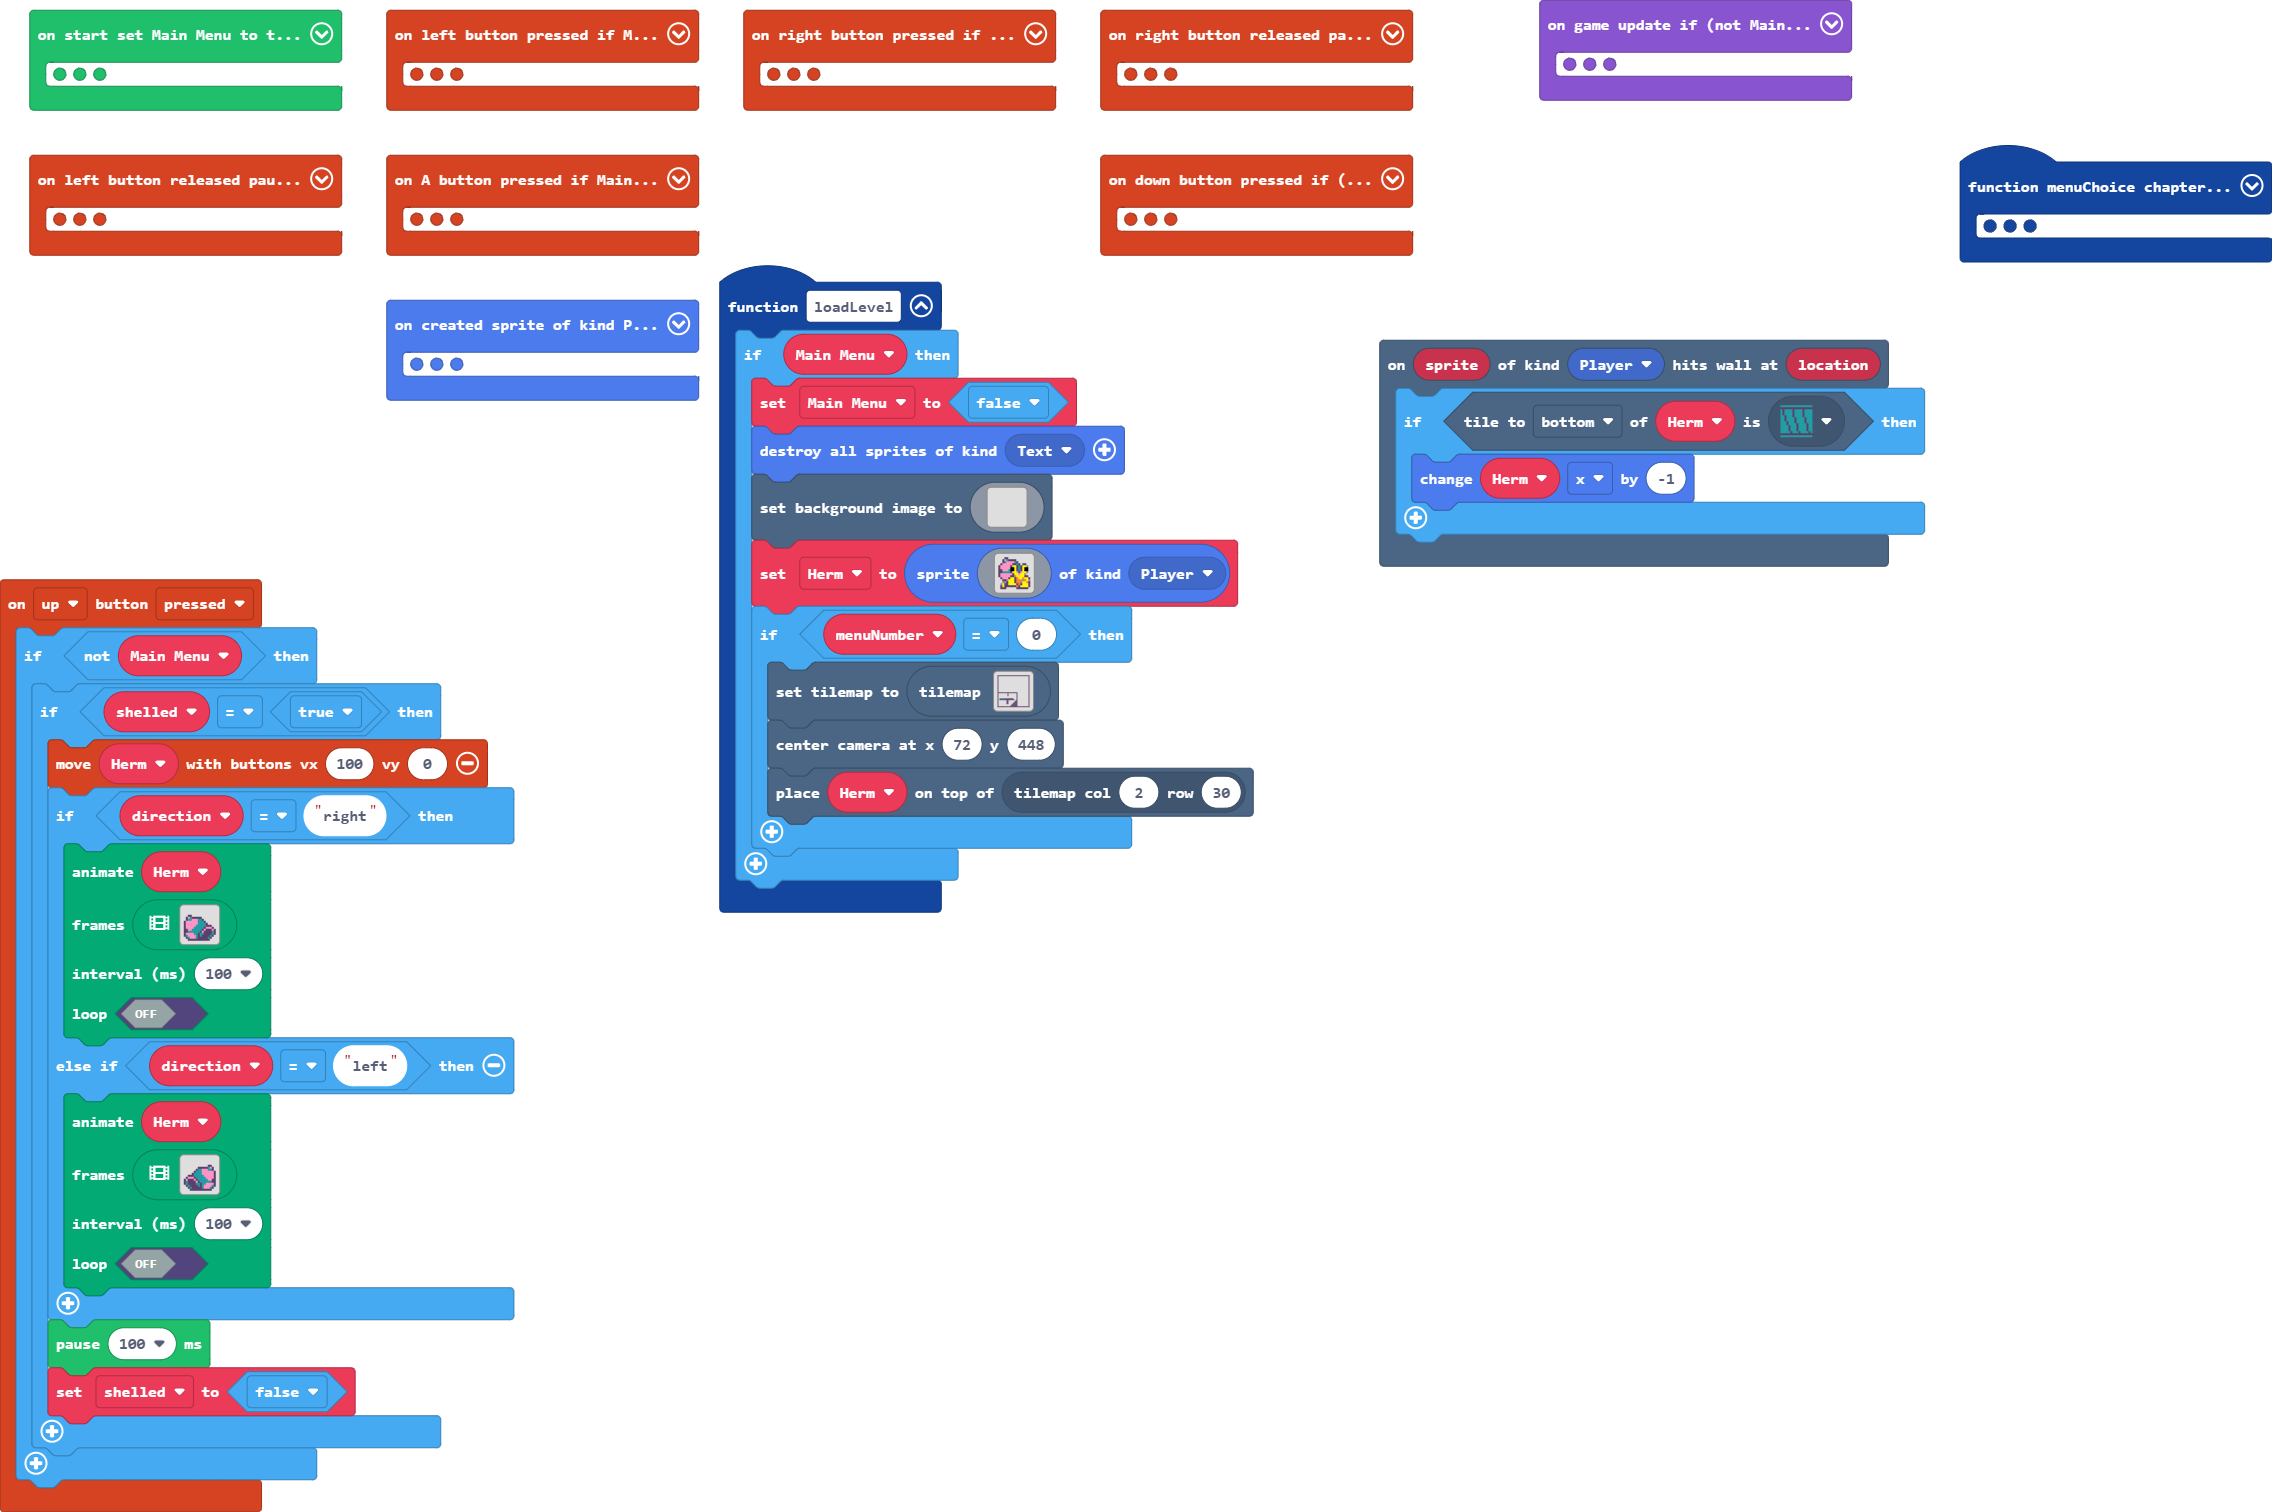
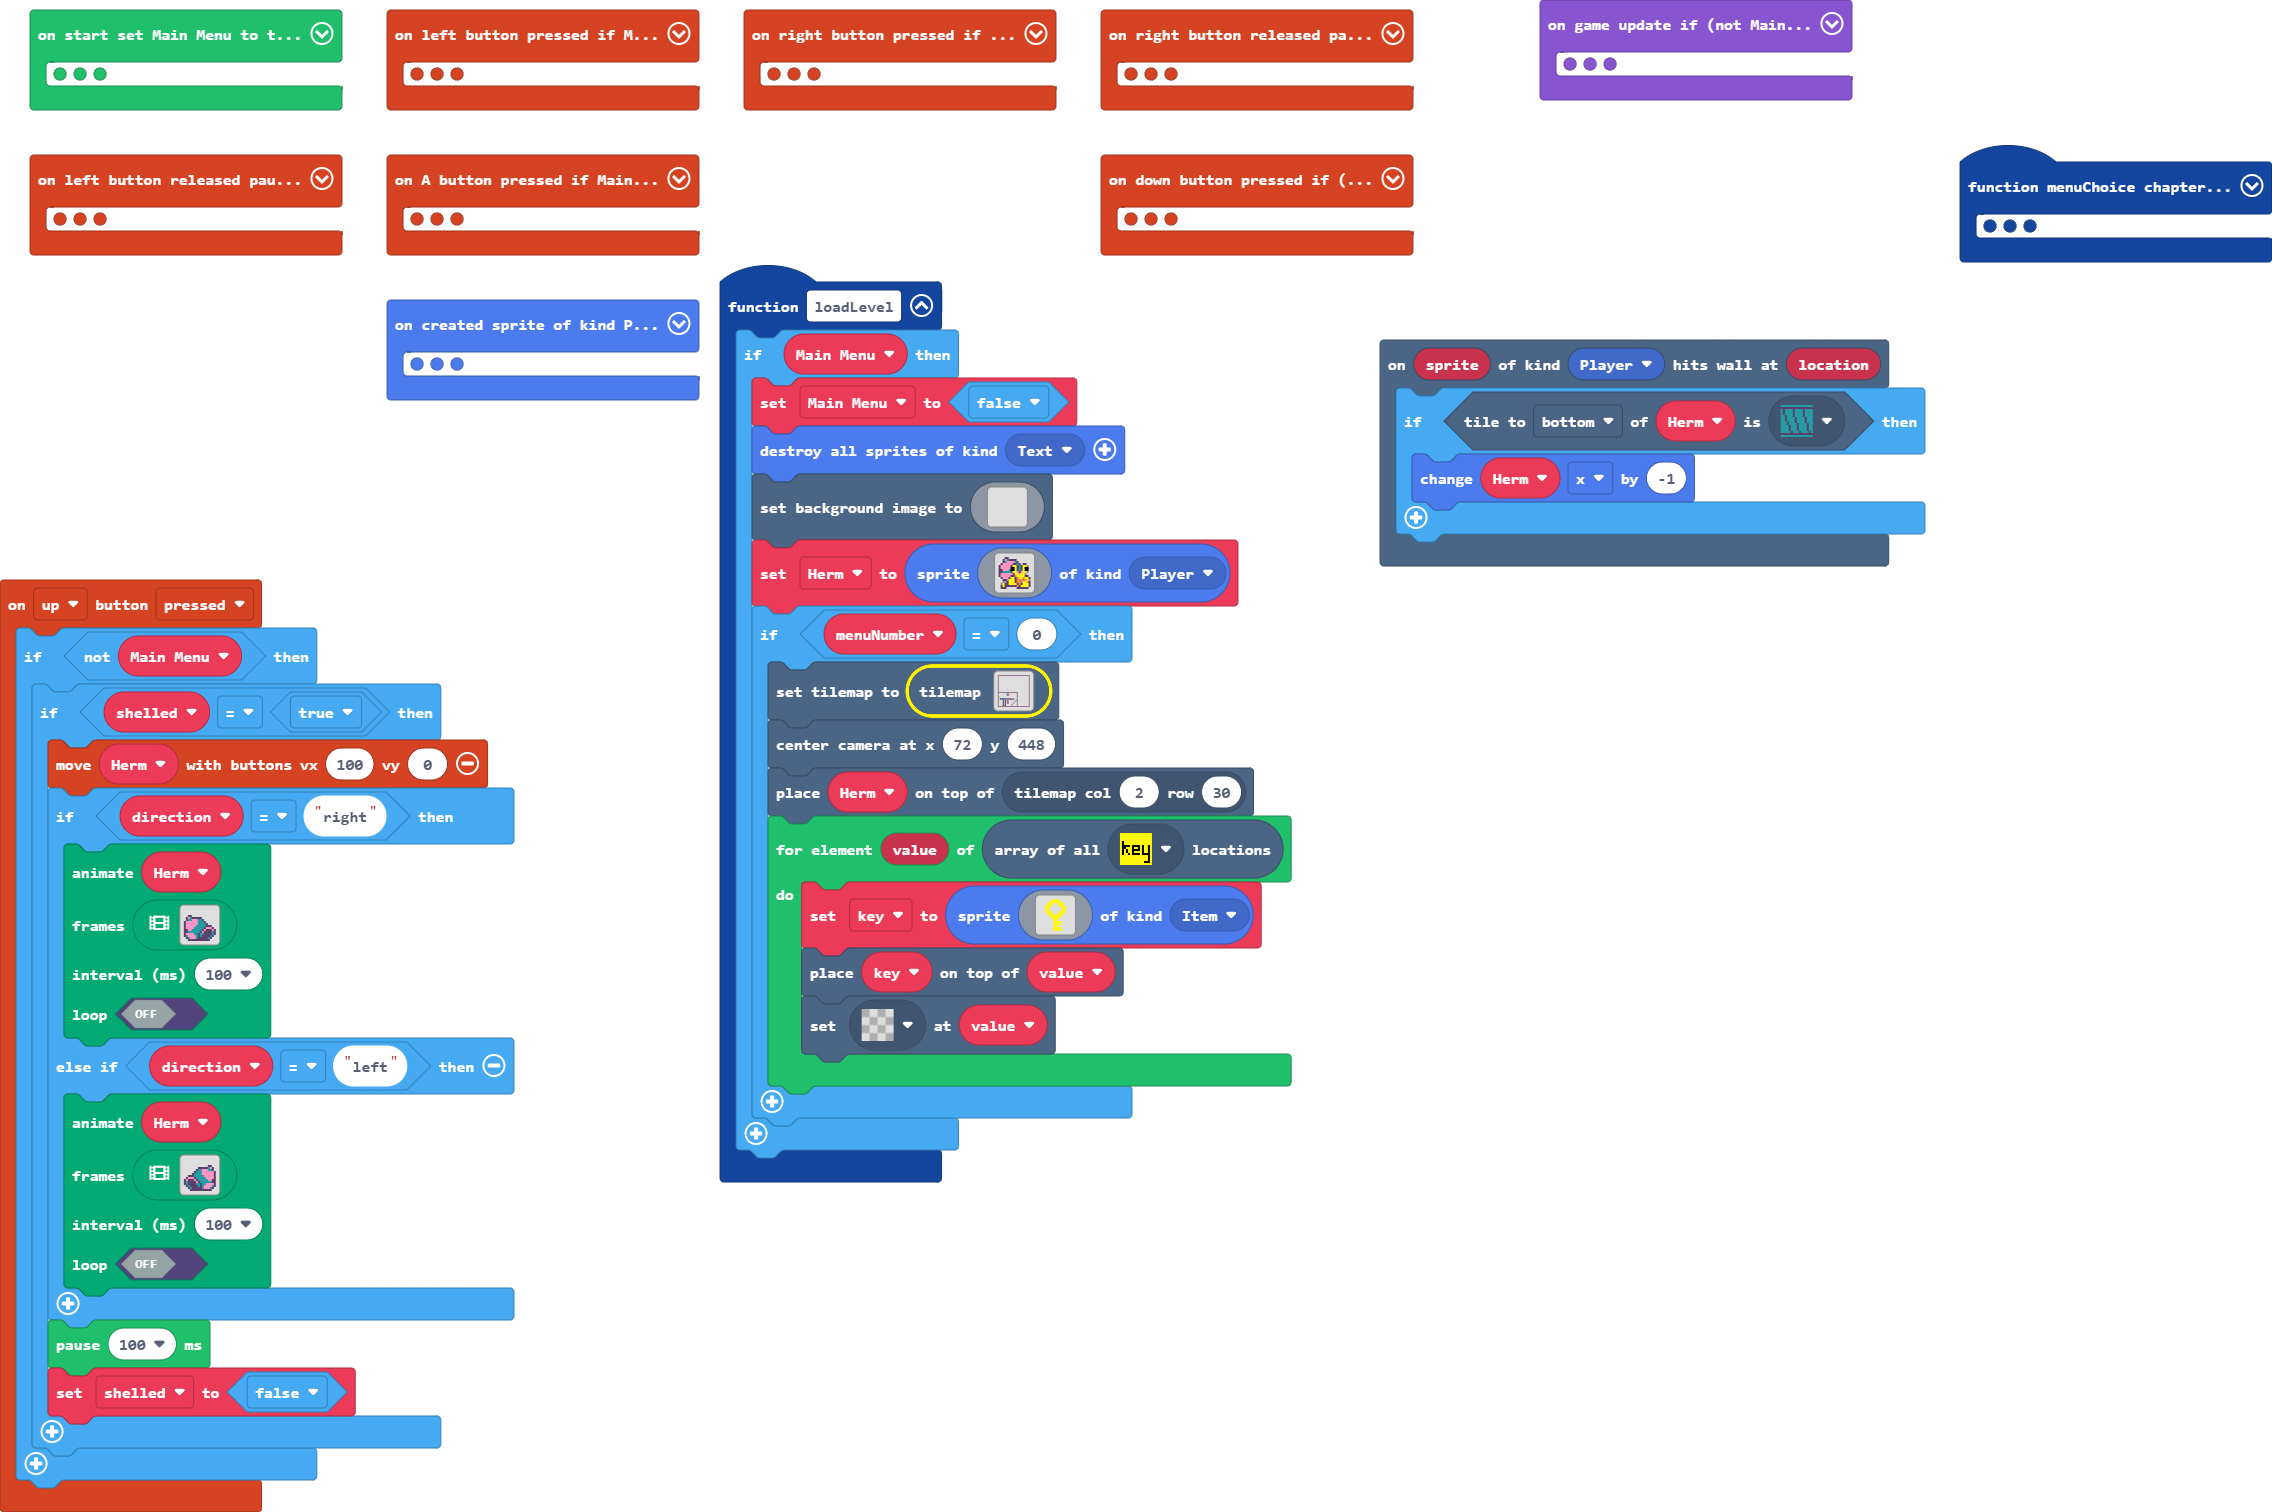
Update main.blocks, main.ts, tilemap.g.jres, tilemap.g.ts

diff --git a/tilemap.g.ts b/tilemap.g.ts
@@ -3,11 +3,17 @@ namespace myTiles {
     //% fixedInstance jres blockIdentity=images._tile
     export const transparency16 = image.ofBuffer(hex``);
     //% fixedInstance jres blockIdentity=images._tile
-    export const tile1 = image.ofBuffer(hex``);
-    //% fixedInstance jres blockIdentity=images._tile
     export const tile2 = image.ofBuffer(hex``);
     //% fixedInstance jres blockIdentity=images._tile
     export const tile3 = image.ofBuffer(hex``);
+    //% fixedInstance jres blockIdentity=images._tile
+    export const tile5 = image.ofBuffer(hex``);
+    //% fixedInstance jres blockIdentity=images._tile
+    export const tile6 = image.ofBuffer(hex``);
+    //% fixedInstance jres blockIdentity=images._tile
+    export const tile7 = image.ofBuffer(hex``);
+    //% fixedInstance jres blockIdentity=images._tile
+    export const tile1 = image.ofBuffer(hex``);
     //% fixedInstance jres blockIdentity=images._tile
     export const tile4 = image.ofBuffer(hex``);
 
@@ -71,7 +77,7 @@ namespace myTiles {
 . . . . . . . . . . . . . . . . 
 `, [myTiles.transparency16], TileScale.Sixteen);
             case "level2":
-            case "level2":return tiles.createTilemap(hex`2000200001010101010101010101010101010101010101010101010101010101010101010100000000000000000000000000000000000000000000000000000000000001010000000000000000000000000000000000000000000000000000000000000101000000000000000000000000000000000000000000000000000000000000010100000000000000000000000000000000000000000000000000000000000001010000000000000000000000000000000000000000000000000000000000000101000000000000000000000000000000000000000000000000000000000000010100000000000000000000000000000000000000000000000000000000000001010000000000000000000000000000000000000000000000000000000000000101000000000000000000000000000000000000000000000000000000000000010100000000000000000000000000000000000000000000000000000000000001010000000000000000000000000000000000000000000000000000000000000101000000000000000000000000000000000000000000000000000000000000010100000000000000000000000000000000000000000000000000000000000001010000000000000000000000000000000000000000000000000000000000000101000000000000000000000000000000000000000000000000000000000000010100000000000000000000000000000000000000000000000000000000000001010101010101010101010101010101010101010100000000000000000000000101000000000000000000010000000000000000010000000000000000000000010100000000000000000001000300000000000001000000000000000000000001010000000000000000000100000000000000000100000000000000000000000101030000000000000000000000000000000000010000000000000000000000010100000000000000000000000000000000000001000000000000000000000001010002020202020201010101010101010000000100000000000000000000000101000101010101010101010101010101010000010000000000000000000000010100000000000000000101000000000000000101000000000000000000000001010000000000000000010100000000000001010100000000000000000000000101000000000000000001010000000000010101010000000000000000000000010100000000000000000101000000000101010101000000000000000000000001010000000000000000000000000001010101010100000000000000000000000101000000000003000000000000010101010101010000000000000000000000010101010101010101010101010101010101010101010101010101010101010101`, img`
+            case "level2":return tiles.createTilemap(hex`2000200001010101010101010101010101010101010101010101010101010101010101010100000000000000000000000000000000000000000000000000000000000001010000000000000000000000000000000000000000000000000000000000000101000000000000000000000000000000000000000000000000000000000000010100000000000000000000000000000000000000000000000000000000000001010000000000000000000000000000000000000000000000000000000000000101000000000000000000000000000000000000000000000000000000000000010100000000000000000000000000000000000000000000000000000000000001010000000000000000000000000000000000000000000000000000000000000101000000000000000000000000000000000000000000000000000000000000010100000000000000000000000000000000000000000000000000000000000001010000000000000000000000000000000000000000000000000000000000000101000000000000000000000000000000000000000000000000000000000000010100000000000000000000000000000000000000000000000000000000000001010000000000000000000000000000000000000000000000000000000000000101000000000000000000000000000000000000000000000000000000000000010100000000000000000000000000000000000000000000000000000000000001010101010101010101010101010101010101010100000000000000000000000101000000000000000001010000000000000000010000000000000000000000010100000000000000000101000300000000000001000000000000000000000001010000000000000000010100000000000000000100000000000000000000000101030000000000000000000000000000000000010000000000000000000000010100000000000000000000000000000000000001000000000000000000000001010002020202020201010101010101010000000100000000000000000000000101000101010101010101010101010101010000010000000000000000000000010100000000050005000101000000000000000101000000000000000000000001010000000004000400010100000000000001000100000000000000000000000101000000000400040001010000000000010000010000000000000000000000010100000000040004000101000000000100000001000000000000000000000001010000000004000400000000000001000000000100000000000000000000000101000000000603060000000000010000000000010000000000000000000000010101010101010101010101010101010101010101010101010101010101010101`, img`
 22222222222222222222222222222222
 2..............................2
 2..............................2
@@ -90,21 +96,21 @@ namespace myTiles {
 2..............................2
 2..............................2
 22222222222222222222...........2
-2.........2........2...........2
-2.........2........2...........2
-2.........2........2...........2
+2........22........2...........2
+2........22........2...........2
+2........22........2...........2
 2..................2...........2
 2..................2...........2
 2.22222222222222...2...........2
 2.222222222222222..2...........2
 2........22.......22...........2
-2........22......222...........2
-2........22.....2222...........2
-2........22....22222...........2
-2.............222222...........2
-2............2222222...........2
+2........22......2.2...........2
+2........22.....2..2...........2
+2........22....2...2...........2
+2.............2....2...........2
+2............2.....2...........2
 22222222222222222222222222222222
-`, [myTiles.transparency16,myTiles.tile1,myTiles.tile2,myTiles.tile4], TileScale.Sixteen);
+`, [myTiles.transparency16,myTiles.tile1,myTiles.tile2,myTiles.tile4,myTiles.tile5,myTiles.tile6,myTiles.tile7], TileScale.Sixteen);
         }
         return null;
     })
@@ -112,12 +118,18 @@ namespace myTiles {
     helpers._registerFactory("tile", function(name: string) {
         switch(helpers.stringTrim(name)) {
             case "transparency16":return transparency16;
-            case "myTile":
-            case "tile1":return tile1;
             case "myTile0":
             case "tile2":return tile2;
             case "myTile1":
             case "tile3":return tile3;
+            case "myTile3":
+            case "tile5":return tile5;
+            case "myTile4":
+            case "tile6":return tile6;
+            case "myTile5":
+            case "tile7":return tile7;
+            case "myTile":
+            case "tile1":return tile1;
             case "myTile2":
             case "tile4":return tile4;
         }

diff --git a/main.ts b/main.ts
@@ -1,3 +1,6 @@
+namespace SpriteKind {
+    export const Item = SpriteKind.create()
+}
 function menuChoice (chapter: number) {
     scene.setBackgroundImage(img`
         ................................................................................................................................................................
@@ -627,6 +630,28 @@ function loadLevel () {
             tiles.setCurrentTilemap(tilemap`level2`)
             scene.centerCameraAt(72, 448)
             tiles.placeOnTile(Herm, tiles.getTileLocation(2, 30))
+            for (let value of tiles.getTilesByType(assets.tile`myTile2`)) {
+                key = sprites.create(img`
+                    . . . . . . 5 5 5 5 . . . . . . 
+                    . . . . . 5 5 5 5 5 5 . . . . . 
+                    . . . . 5 5 5 . . 5 5 5 . . . . 
+                    . . . 5 5 5 . . . . 5 5 5 . . . 
+                    . . . 5 5 . . . . . . 5 5 . . . 
+                    . . . 5 5 . . . . . . 5 5 . . . 
+                    . . . 5 5 5 . . . . 5 5 5 . . . 
+                    . . . . 5 5 5 . . 5 5 5 . . . . 
+                    . . . . . 5 5 5 5 5 5 . . . . . 
+                    . . . . . . 5 5 5 5 . . . . . . 
+                    . . . . . . . 5 5 . . . . . . . 
+                    . . . . . . . 5 5 5 5 . . . . . 
+                    . . . . . . . 5 5 5 5 . . . . . 
+                    . . . . . . . 5 5 . . . . . . . 
+                    . . . . . . . 5 5 5 5 . . . . . 
+                    . . . . . . . 5 5 5 5 . . . . . 
+                    `, SpriteKind.Item)
+                tiles.placeOnTile(key, value)
+                tiles.setTileAt(value, assets.tile`transparency16`)
+            }
         }
     }
 }
@@ -954,6 +979,7 @@ controller.down.onEvent(ControllerButtonEvent.Pressed, function () {
         }
     }
 })
+let key: Sprite = null
 let Herm: Sprite = null
 let Chapter_Show: TextSprite = null
 let Chapter_List: string[] = []
